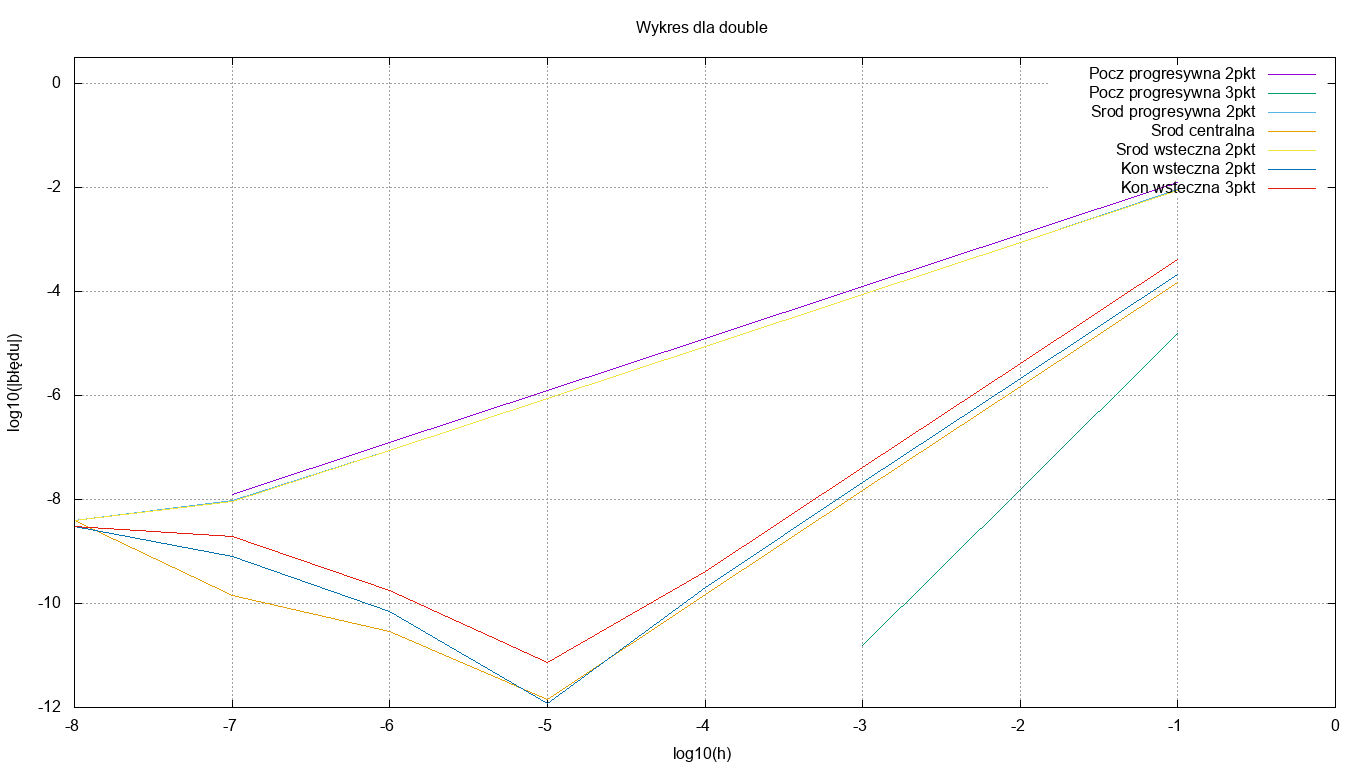
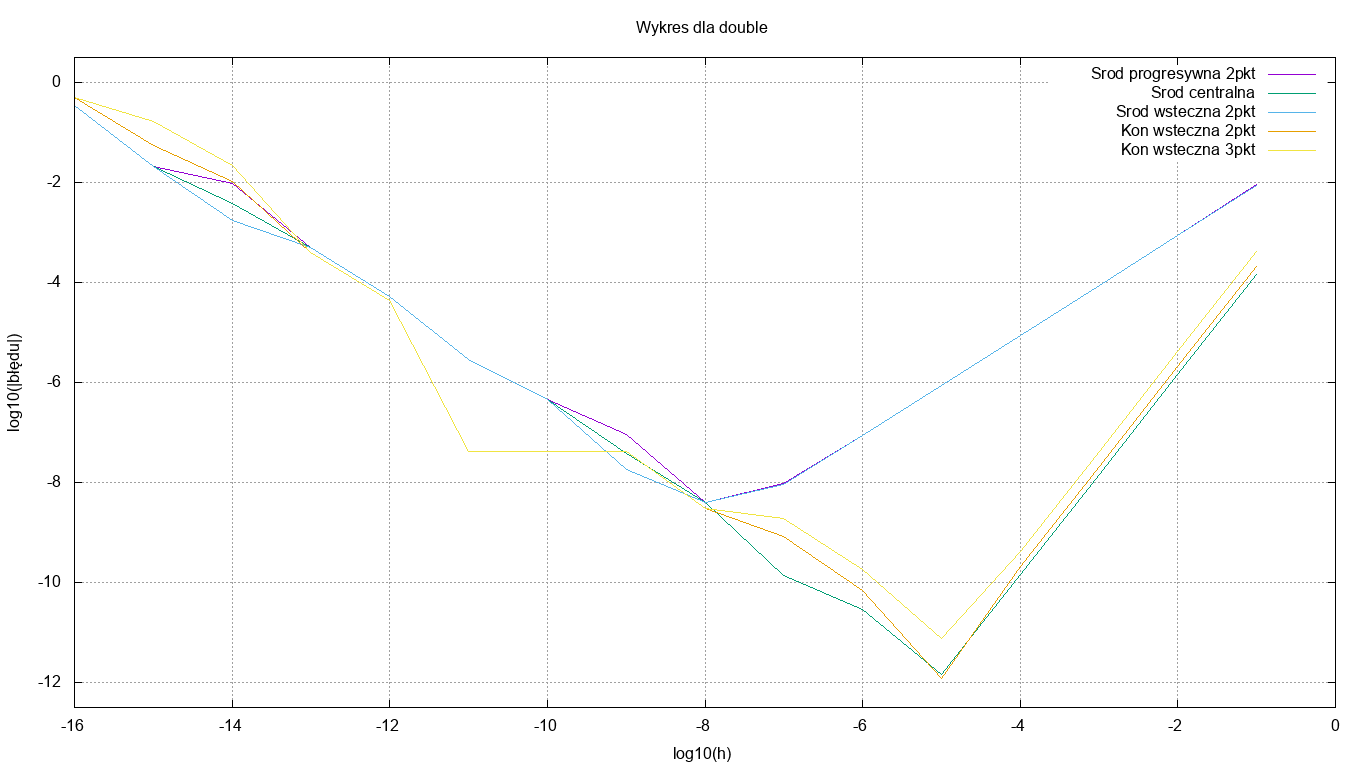
Update plot generation for 8

diff --git a/main_8.cpp b/main_8.cpp
@@ -1,14 +1,13 @@
-#define _USE_MATH_DEFINES
-
 #include <iostream>
 #include <cmath>
 #include <fstream>
 
 using namespace std;
 
+#define PI 3.14159265358979323846
 #define STEP 0.1
 #define STEP_COUNT 20
-#define METHOD_COUNT 7
+#define METHOD_COUNT 5
 
 template<typename T> void zapis_danych(T *kroki, T **wyniki);
 
@@ -42,20 +41,18 @@ template<typename T> T pochodna(T x) {
 
 template<typename T> void oblicz_roznice(T *kroki, T **wyniki) {
     T poczatek = 0.0;
-    T srodek = M_PI_2; // pi/2
-    T koniec = M_PI; // pi
+    T koniec = PI; // pi
+    T srodek = (koniec - poczatek) / 2;
     T krok = STEP;
     for (int i = 0; i < STEP_COUNT; i++) {
         kroki[i] = krok;
 
-        wyniki[0][i] = fabs(pochodna(poczatek) - roznica_progresywna(poczatek, krok));
-        wyniki[1][i] = fabs(pochodna(poczatek) - roznica_progresywna_trzypunktowa(poczatek, krok));
-        wyniki[2][i] = fabs(pochodna(srodek) - roznica_wsteczna(srodek, krok));
-        wyniki[3][i] = fabs(pochodna(srodek) - roznica_centralna(srodek, krok));
-        wyniki[4][i] = fabs(pochodna(srodek) - roznica_progresywna(srodek, krok));
-        wyniki[5][i] = fabs(pochodna(koniec) - roznica_wsteczna(koniec, krok));
-        wyniki[6][i] = fabs(pochodna(koniec) - roznica_wsteczna_trzypunktowa(koniec, krok));
-        krok *= 0.1;
+        wyniki[0][i] = fabs(pochodna(srodek) - roznica_wsteczna(srodek, krok));
+        wyniki[1][i] = fabs(pochodna(srodek) - roznica_centralna(srodek, krok));
+        wyniki[2][i] = fabs(pochodna(srodek) - roznica_progresywna(srodek, krok));
+        wyniki[3][i] = fabs(pochodna(koniec) - roznica_wsteczna(koniec, krok));
+        wyniki[4][i] = fabs(pochodna(koniec) - roznica_wsteczna_trzypunktowa(koniec, krok));
+        krok /= 10;
     }
 }
 
@@ -75,8 +72,6 @@ int main() {
         wynikiDouble[i] = new double[STEP_COUNT];
     }
 
-
-
     oblicz_roznice(krokiFloat, wynikiFloat);
     oblicz_roznice(krokiDouble, wynikiDouble);
     
@@ -92,13 +87,11 @@ template<typename T> void zapis_danych(T *kroki, T **wyniki) {
     string *opisy;
     opisy = new string[METHOD_COUNT + 1];
     opisy[0] = "Krok";
-    opisy[1] = "start prog2";
-    opisy[2] = "start prog3";
-    opisy[3] = "center wst2";
-    opisy[4] = "center centr";
-    opisy[5] = "center prog2";
-    opisy[6] = "end wst2";
-    opisy[7] = "end wst3";
+    opisy[1] = "center wst2";
+    opisy[2] = "center centr";
+    opisy[3] = "center prog2";
+    opisy[4] = "end wst2";
+    opisy[5] = "end wst3";
 
     fstream plik;
     string nazwa = "data/data_";
